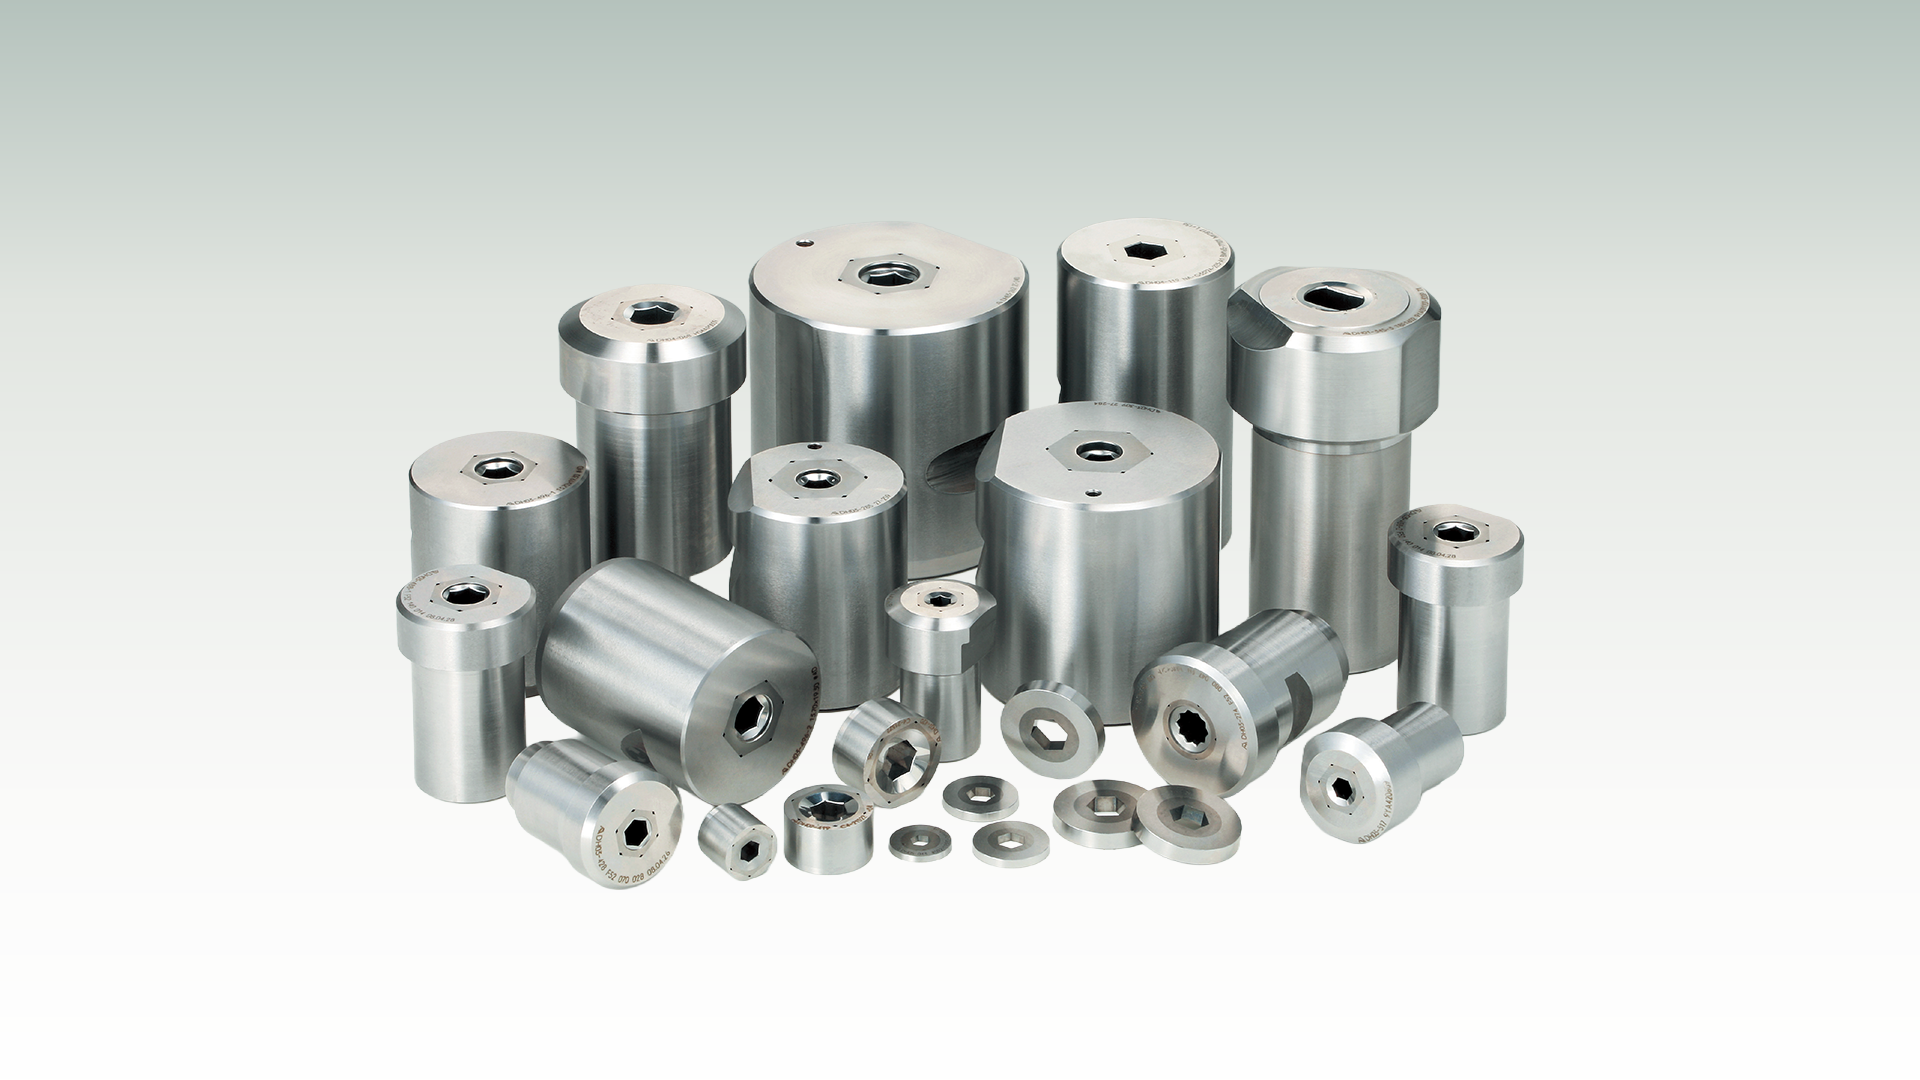
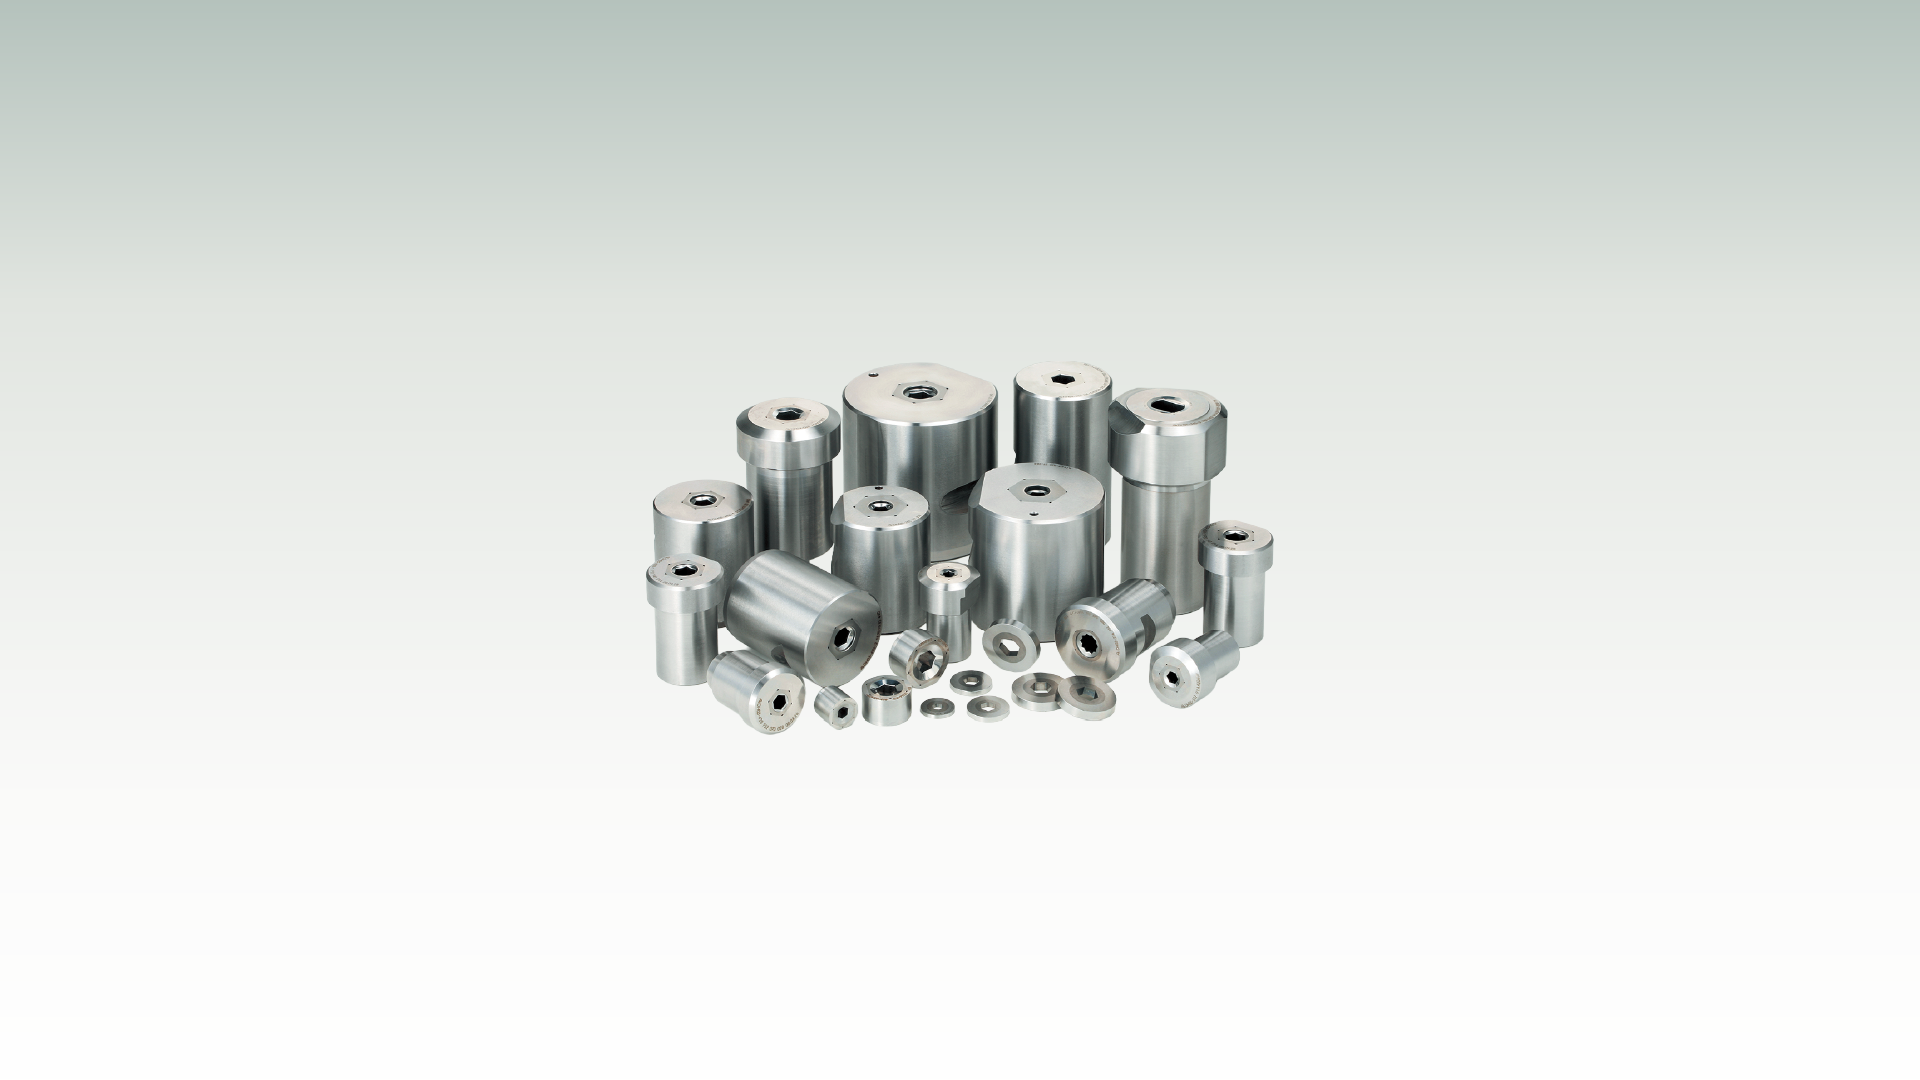
feat: トップ製品画像差替・採用要項整理・会社ページ左寄せ・問合せ文言修正
- トップ: 製品セクション左画像を新規画像に差替＋表示位置調整
- 採用: 募集要項カードから職種行を削除（タイトルと重複）
- 会社: 強み02セクションを右寄せから左寄せに変更
- 問合せ: 「こんな資材」を「こんな金型」に修正

Changed region(s): [[0.1875, 0.2139, 0.8125, 0.825], [0.4375, 0.2139, 0.5, 0.275]]

diff --git a/src/app/company/page.tsx b/src/app/company/page.tsx
@@ -270,7 +270,7 @@ function Strength02Section() {
   return (
     <section className="py-24 lg:py-32 bg-white">
       <div className="px-8 md:px-16 lg:px-24">
-        <div className="lg:ml-auto lg:w-[70%]">
+        <div className="lg:mr-auto lg:w-[70%]">
           <h2
             className="text-[28px] md:text-[36px] lg:text-[46px] font-bold text-navy tracking-[0.2em] leading-[1.4]"
             style={{ fontFamily: "'Noto Sans JP', sans-serif" }}
@@ -290,7 +290,7 @@ function Strength02Section() {
         </div>
 
         {/* Description */}
-        <div className="mt-16 lg:ml-auto lg:w-[70%]">
+        <div className="mt-16 lg:mr-auto lg:w-[70%]">
           <h3
             className="text-[20px] md:text-[24px] lg:text-[28px] font-bold text-navy tracking-[0.1em] leading-[1.5] mb-6"
             style={{ fontFamily: "'Noto Sans JP', sans-serif" }}
@@ -307,7 +307,7 @@ function Strength02Section() {
         </div>
 
         {/* Double Hex - Right aligned */}
-        <div className="mt-16 lg:ml-auto lg:w-[70%]">
+        <div className="mt-16 lg:mr-auto lg:w-[70%]">
           <h3
             className="text-[20px] md:text-[24px] lg:text-[28px] font-bold text-navy tracking-[0.1em] leading-[1.5] mb-6"
             style={{ fontFamily: "'Noto Sans JP', sans-serif" }}

diff --git a/src/app/recruit/page.tsx b/src/app/recruit/page.tsx
@@ -401,7 +401,6 @@ function RequirementsSection() {
     {
       title: "金型の製図・設計・開発",
       items: [
-        { label: "職種", value: "金型の製図・設計・開発" },
         { label: "雇用形態", value: "正社員" },
         { label: "募集区分", value: "中途採用" },
         { label: "勤務地", value: "愛知県春日井市東野新町一丁目4番地" },
@@ -416,7 +415,6 @@ function RequirementsSection() {
     {
       title: "既存客先向け営業",
       items: [
-        { label: "職種", value: "既存客先向け営業" },
         { label: "雇用形態", value: "正社員" },
         { label: "募集区分", value: "中途採用" },
         { label: "勤務地", value: "愛知県春日井市東野新町一丁目4番地" },
@@ -450,7 +448,7 @@ function RequirementsSection() {
         </div>
 
         {/* Job Cards - 2 columns with aligned rows */}
-        <div className="grid grid-cols-1 lg:grid-cols-2 gap-x-8 lg:gap-x-12 max-w-6xl mx-auto" style={{ gridTemplateRows: "repeat(12, auto)" }}>
+        <div className="grid grid-cols-1 lg:grid-cols-2 gap-x-8 lg:gap-x-12 max-w-6xl mx-auto" style={{ gridTemplateRows: "repeat(11, auto)" }}>
           {jobs.map((job, jobIndex) => (
             <div key={`card-${jobIndex}`} className="border border-navy/15" style={{ display: "grid", gridTemplateRows: "subgrid", gridRow: "span " + (job.items.length + 1) }}>
               {/* Job Title Header */}

diff --git a/src/app/page.tsx b/src/app/page.tsx
@@ -369,7 +369,7 @@ function RecruitSection() {
             alt="製品"
             fill
             className="object-cover"
-            style={{ objectPosition: "75% 90%", transform: "scale(1.25)" }}
+            style={{ objectPosition: "center 0%", transform: "scale(1.5) translateY(5%)" }}
           />
         </div>
         <div className="sm:w-1/2 relative min-h-[350px] lg:min-h-[700px]">

diff --git a/src/components/ContactCTA.tsx b/src/components/ContactCTA.tsx
@@ -25,7 +25,7 @@ export default function ContactCTA() {
                 className="text-[13px] lg:text-[14px] text-white/70 leading-[2] tracking-[0.15em] mt-8"
                 style={{ fontFamily: "'Noto Sans JP', sans-serif", fontWeight: 400 }}
               >
-                <p>「こんな資材があれば...」「相談にのって欲しい」</p>
+                <p>「こんな金型があれば...」「相談にのって欲しい」</p>
                 <p>どのようなお問い合わせでも構いません。</p>
                 <p>あなたの抱えている思いをどうぞお聞かせください。</p>
               </div>